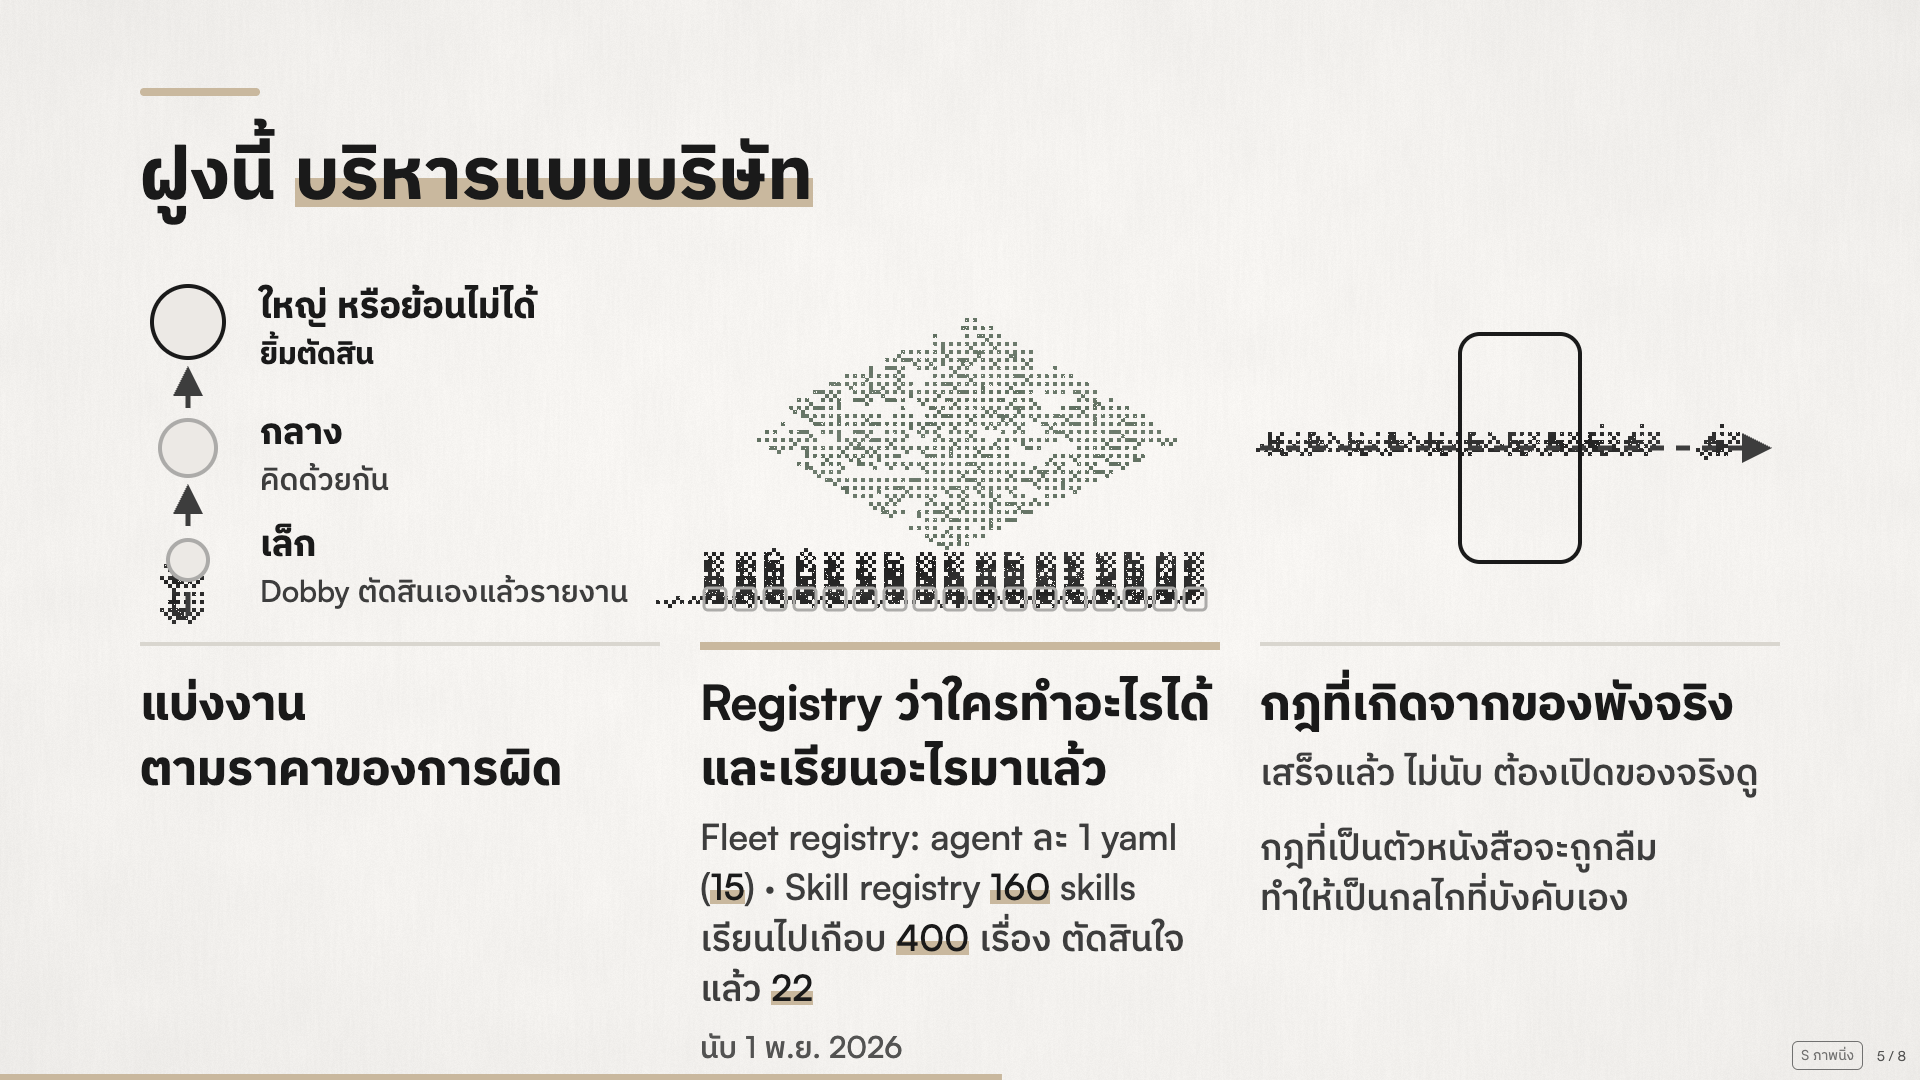
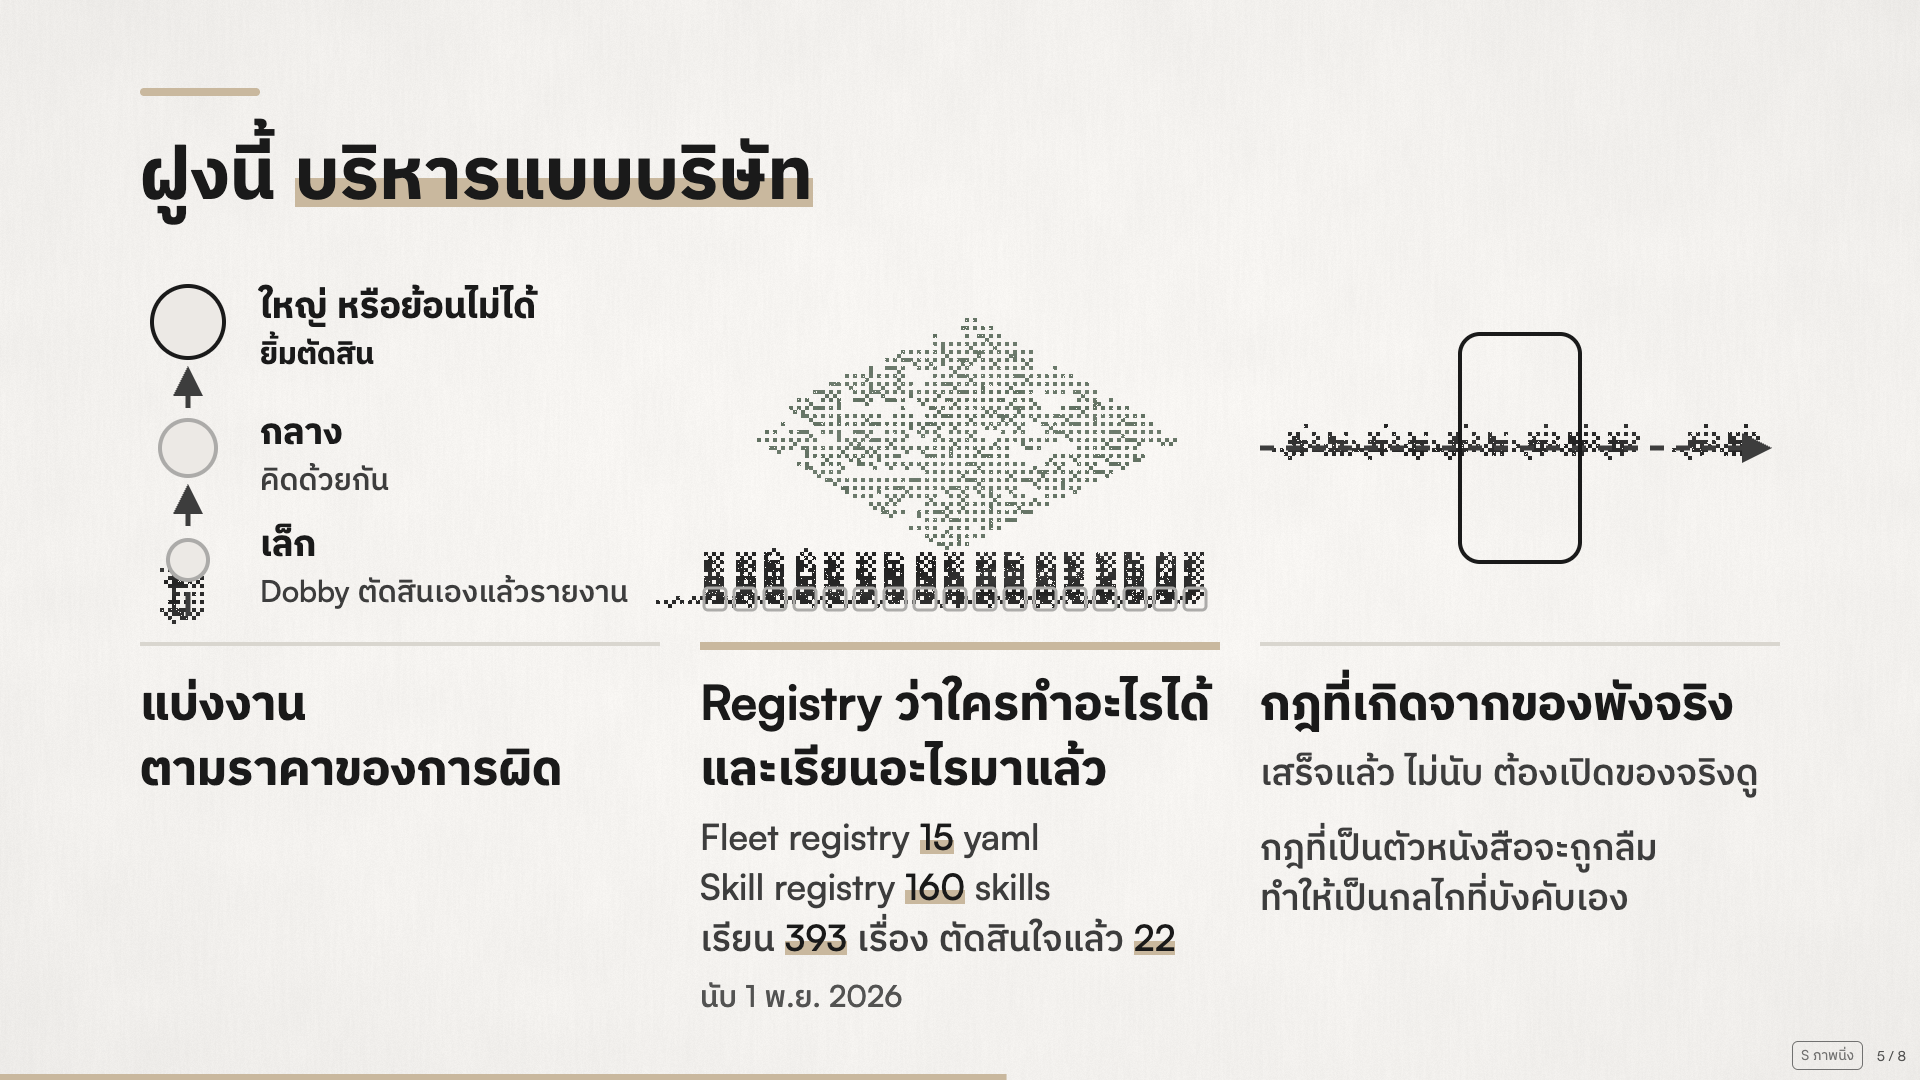
docs(slides): registry lines on three short rows, exact topic count
Claude-Session: https://claude.ai/code/session_01Vm4RZ5VtAihcX2kQ2SKMyW

Changed region(s): [[0.3438, 0.7639, 0.625, 0.9778], [0.6562, 0.3972, 0.9062, 0.4278]]

diff --git a/ψ/writing/slides/yim-3d/deck.html b/ψ/writing/slides/yim-3d/deck.html
@@ -351,7 +351,7 @@ body.shownotes .notes{display:block}
             <rect class="anc-slot d-slot" x="4" y="8" width="22" height="22" rx="4" stroke-width="3"/><rect class="anc-slot d-slot" x="34" y="8" width="22" height="22" rx="4" stroke-width="3"/><rect class="anc-slot d-slot" x="64" y="8" width="22" height="22" rx="4" stroke-width="3"/><rect class="anc-slot d-slot" x="94" y="8" width="22" height="22" rx="4" stroke-width="3"/><rect class="anc-slot d-slot" x="124" y="8" width="22" height="22" rx="4" stroke-width="3"/><rect class="anc-slot d-slot" x="154" y="8" width="22" height="22" rx="4" stroke-width="3"/><rect class="anc-slot d-slot" x="184" y="8" width="22" height="22" rx="4" stroke-width="3"/><rect class="anc-slot d-slot" x="214" y="8" width="22" height="22" rx="4" stroke-width="3"/><rect class="anc-slot d-slot" x="244" y="8" width="22" height="22" rx="4" stroke-width="3"/><rect class="anc-slot d-slot" x="274" y="8" width="22" height="22" rx="4" stroke-width="3"/><rect class="anc-slot d-slot" x="304" y="8" width="22" height="22" rx="4" stroke-width="3"/><rect class="anc-slot d-slot" x="334" y="8" width="22" height="22" rx="4" stroke-width="3"/><rect class="anc-slot d-slot" x="364" y="8" width="22" height="22" rx="4" stroke-width="3"/><rect class="anc-slot d-slot" x="394" y="8" width="22" height="22" rx="4" stroke-width="3"/><rect class="anc-slot d-slot" x="424" y="8" width="22" height="22" rx="4" stroke-width="3"/><rect class="anc-slot d-slot" x="454" y="8" width="22" height="22" rx="4" stroke-width="3"/><rect class="anc-slot d-slot" x="484" y="8" width="22" height="22" rx="4" stroke-width="3"/>
           </svg>
         </div>
-        <div class="item key"><p class="title">Registry ว่าใครทำอะไรได้<br>และเรียนอะไรมาแล้ว</p><p class="body">Fleet registry: agent ละ 1 yaml (<span class="hl">15</span>) · Skill registry <span class="hl">160</span> skills<br>เรียนไปเกือบ <span class="hl">400</span> เรื่อง ตัดสินใจแล้ว <span class="hl">22</span></p><p class="cap">นับ 1 พ.ย. 2026</p></div>
+        <div class="item key"><p class="title">Registry ว่าใครทำอะไรได้<br>และเรียนอะไรมาแล้ว</p><p class="body">Fleet registry <span class="hl">15</span> yaml<br>Skill registry <span class="hl">160</span> skills<br>เรียน <span class="hl">393</span> เรื่อง ตัดสินใจแล้ว <span class="hl">22</span></p><p class="cap">นับ 1 พ.ย. 2026</p></div>
       </div>
       <div class="rv" style="--d:3">
         <svg class="org-v" viewBox="0 0 520 340" role="img" aria-label="งานทุกชิ้นต้องผ่านการตรวจก่อนนับว่าเสร็จ">
